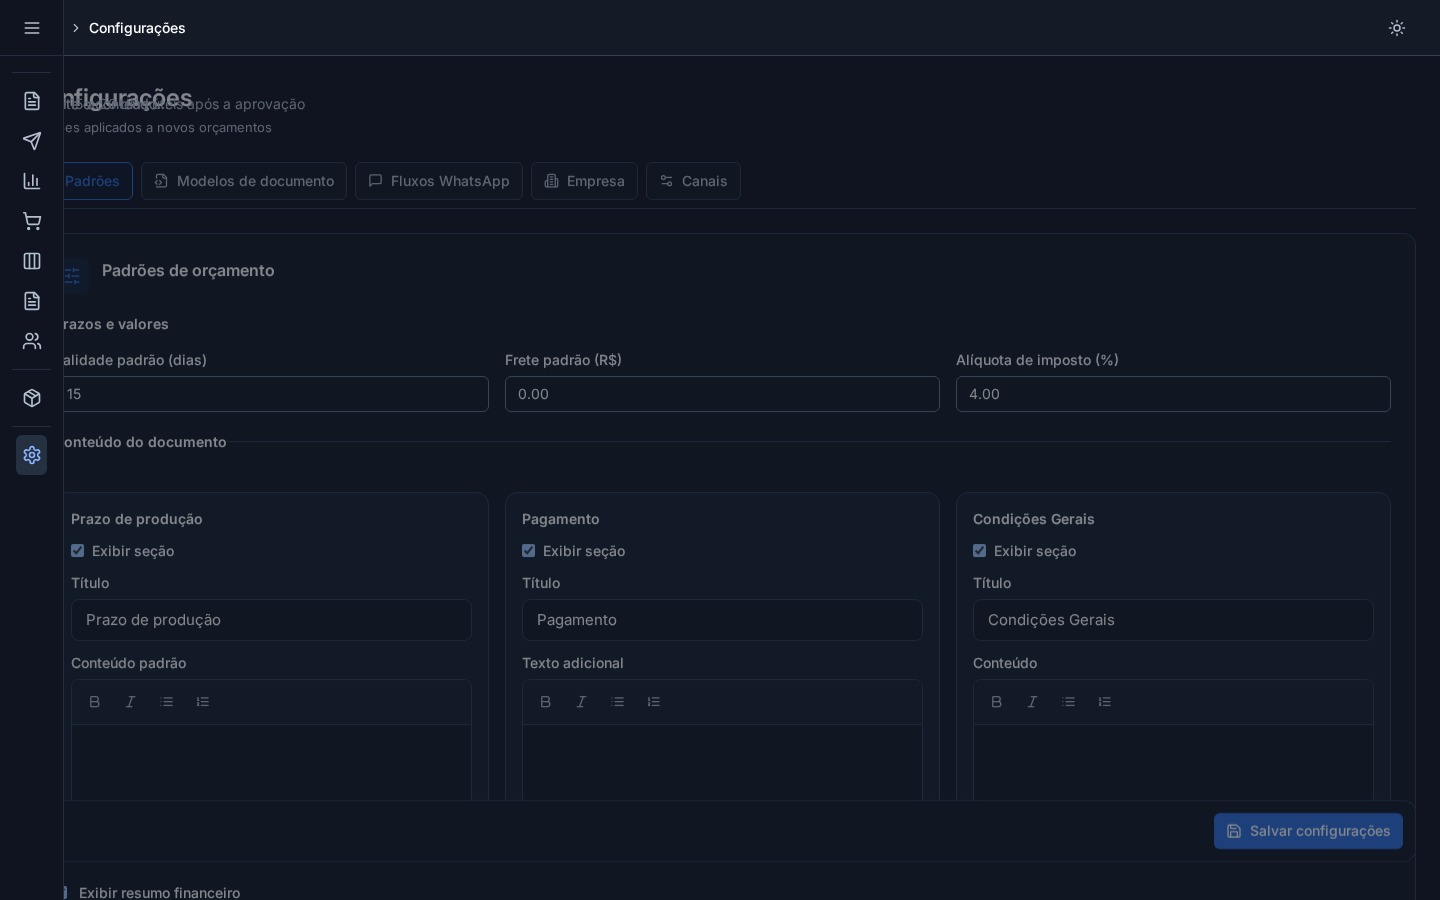
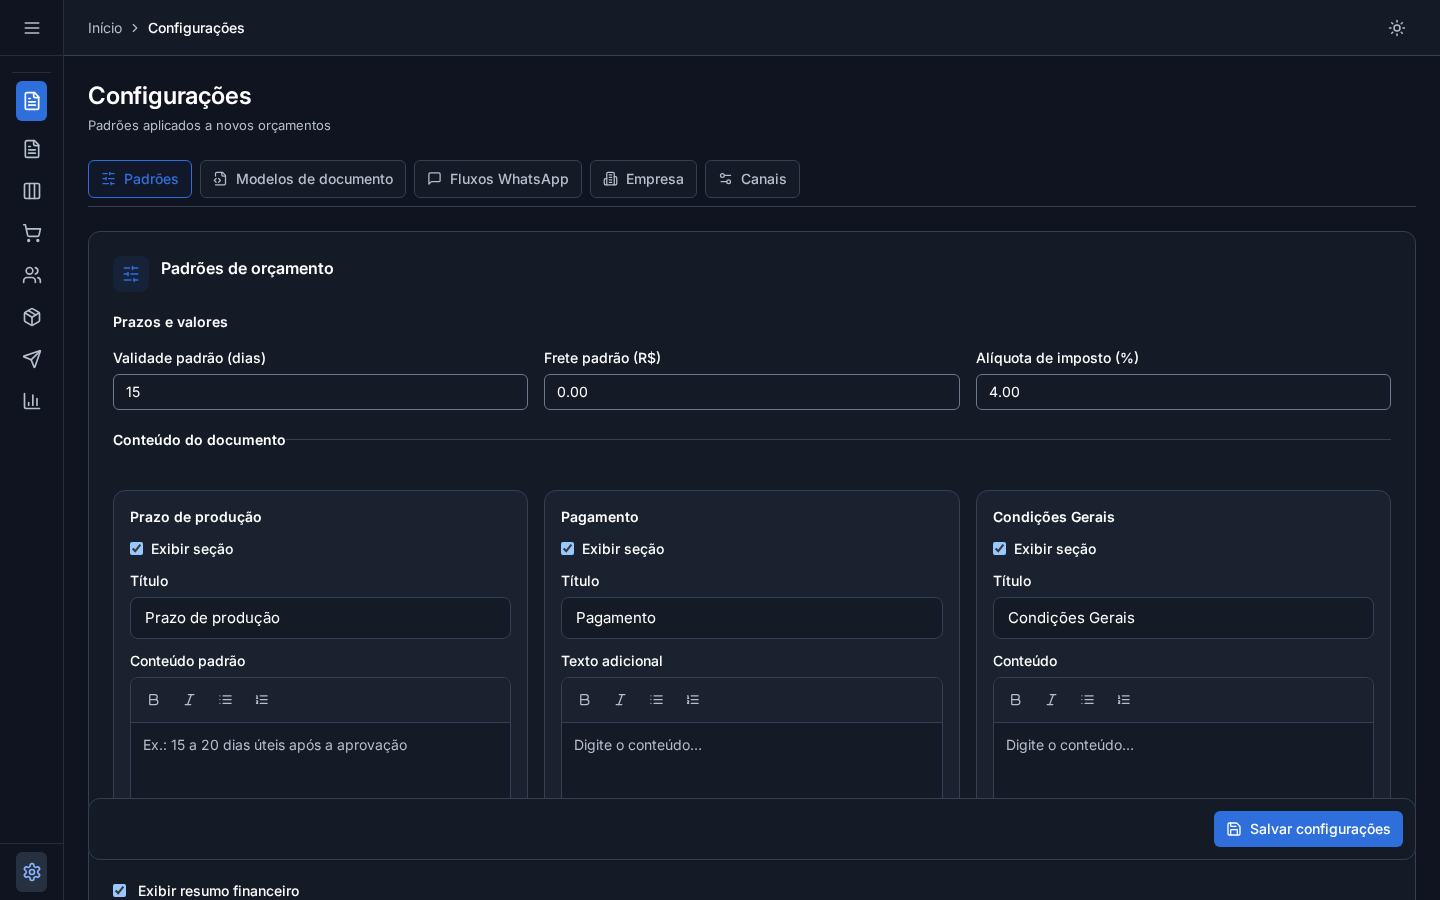
fix(ui): stabilize final polish evidence

diff --git a/src/components/ui/rich-text-editor.tsx b/src/components/ui/rich-text-editor.tsx
@@ -104,10 +104,12 @@ export function RichTextEditor({ value, onChange, disabled = false, ariaLabel, p
     <LexicalComposer initialConfig={{ namespace: ariaLabel, nodes: [ListNode, ListItemNode], editable: !disabled, onError: (error) => { throw error; }, theme: { paragraph: 'mb-2 last:mb-0', list: { ul: 'ml-5 list-disc', ol: 'ml-5 list-decimal', listitem: 'my-1' }, text: { bold: 'font-semibold', italic: 'italic' } } }}>
       <div ref={container} className={cn('overflow-hidden rounded-md border border-line bg-surface focus-within:ring-2 focus-within:ring-primary', disabled && 'opacity-50')}>
         <Toolbar disabled={disabled} />
-        <RichTextPlugin
-          contentEditable={<ContentEditable aria-label={ariaLabel} aria-placeholder={placeholder} placeholder={<span className="pointer-events-none absolute left-3 top-3 text-sm text-fg-muted">{placeholder}</span>} className="relative min-h-28 px-3 py-2.5 text-sm leading-6 text-fg outline-none" />}
-          ErrorBoundary={LexicalErrorBoundary}
-        />
+        <div className="relative">
+          <RichTextPlugin
+            contentEditable={<ContentEditable aria-label={ariaLabel} aria-placeholder={placeholder} placeholder={<span className="pointer-events-none absolute left-3 top-3 text-sm text-fg-muted">{placeholder}</span>} className="relative min-h-28 px-3 py-2.5 text-sm leading-6 text-fg outline-none" />}
+            ErrorBoundary={LexicalErrorBoundary}
+          />
+        </div>
         <HistoryPlugin />
         <ListPlugin />
         <SynchronizePlugin value={value} lastEditorValue={lastEditorValue} editorVersion={editorVersion} container={container} />

diff --git a/tests/quotation-lifecycle.spec.js b/tests/quotation-lifecycle.spec.js
@@ -1035,14 +1035,14 @@ test('sales order detail presents one origin, one progress summary, and protecte
   const partialProgress = page.getByRole('region', { name: 'Progresso do pedido' });
   await expect(partialProgress.getByText('60%', { exact: true })).toBeVisible();
   await expect(partialProgress.getByText('40%', { exact: true })).toBeVisible();
-  const sourceButton = page.getByRole('button', { name: 'Abrir orçamento de origem' });
+  const sourceButton = page.getByRole('button', { name: 'Abrir orçamento ORC-LOCAL-1' });
   await expect(sourceButton).toHaveCount(1);
-  await expect(sourceButton).toHaveAttribute('data-variant', 'ghost');
+  await expect(sourceButton).toHaveAttribute('data-variant', 'link');
   await sourceButton.click();
   await expect(page).toHaveURL(/\/#\/quotations\/ORC-LOCAL-1$/);
 
   await page.goto('/#/sales-orders/LOCAL-COMPLETED');
-  await expect(page.getByText('Concluído', { exact: true })).toBeVisible();
+  await expect(page.getByTitle('Concluído')).toBeVisible();
   await expect(page.getByRole('region', { name: 'Progresso do pedido' }).getByText('100%', { exact: true })).toHaveCount(2);
   await expect(page.getByRole('button', { name: 'Marcar faturado' })).toBeDisabled();
   await expect(page.getByRole('button', { name: 'Marcar entregue' })).toBeDisabled();

diff --git a/tests/settings-evidence.spec.js b/tests/settings-evidence.spec.js
@@ -119,6 +119,9 @@ async function mockSettings(page) {
 
 async function settleForEvidence(page) {
   await page.evaluate(async () => {
+    globalThis.scrollTo(0, 0);
+    globalThis.document.scrollingElement?.scrollTo(0, 0);
+    globalThis.document.querySelector('main')?.scrollTo(0, 0);
     await globalThis.document.fonts.ready;
     await Promise.all(
       globalThis.document
@@ -132,6 +135,11 @@ test('captura Configurações nos temas e tamanhos principais', async ({ page })
   const state = await mockSettings(page);
   await page.goto('/#/settings');
   await expect(page.getByRole('heading', { name: 'Padrões de orçamento' })).toBeVisible();
+  for (const placeholder of await page.getByText('Digite o conteúdo…', { exact: true }).all()) {
+    const box = await placeholder.boundingBox();
+    expect(box).not.toBeNull();
+    expect(box?.y).toBeGreaterThan(55);
+  }
 
   for (const viewport of [
     { width: 1440, height: 900 },
